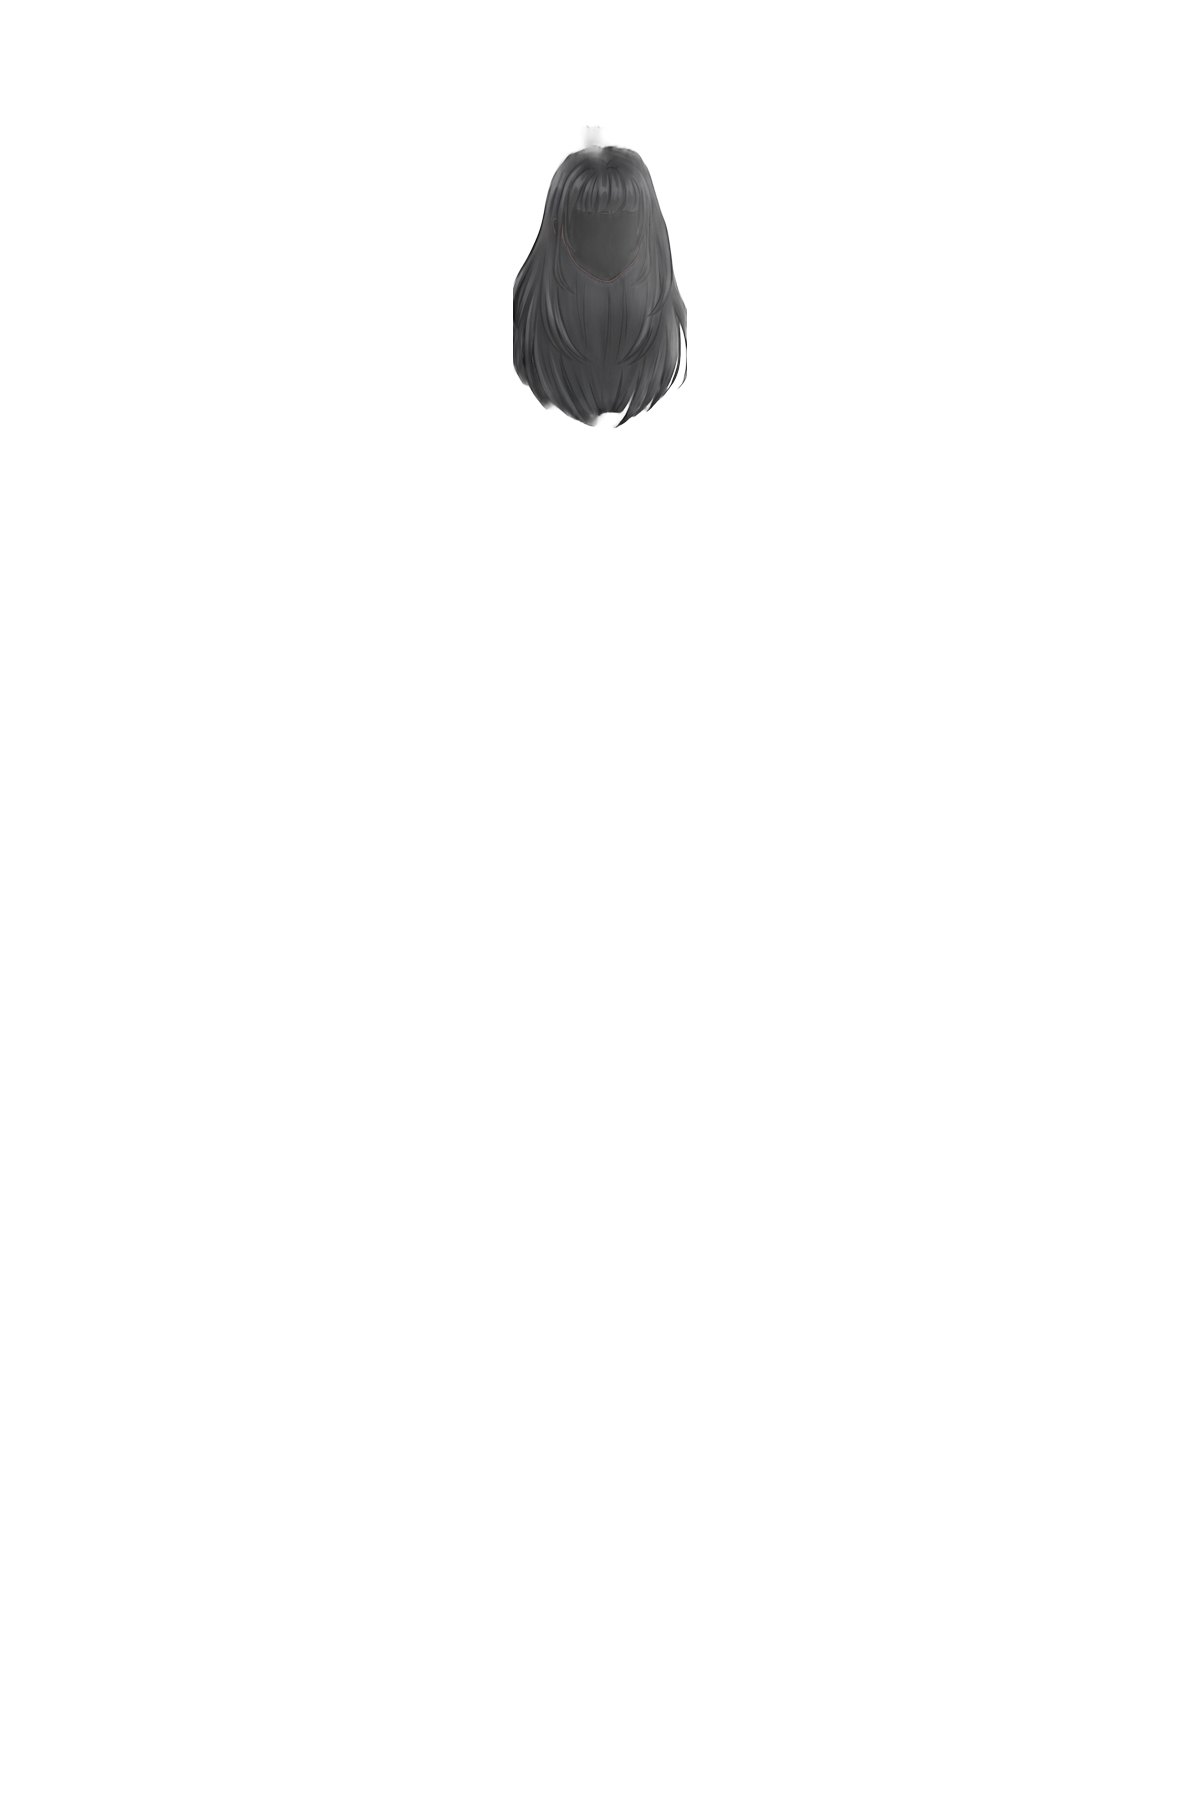
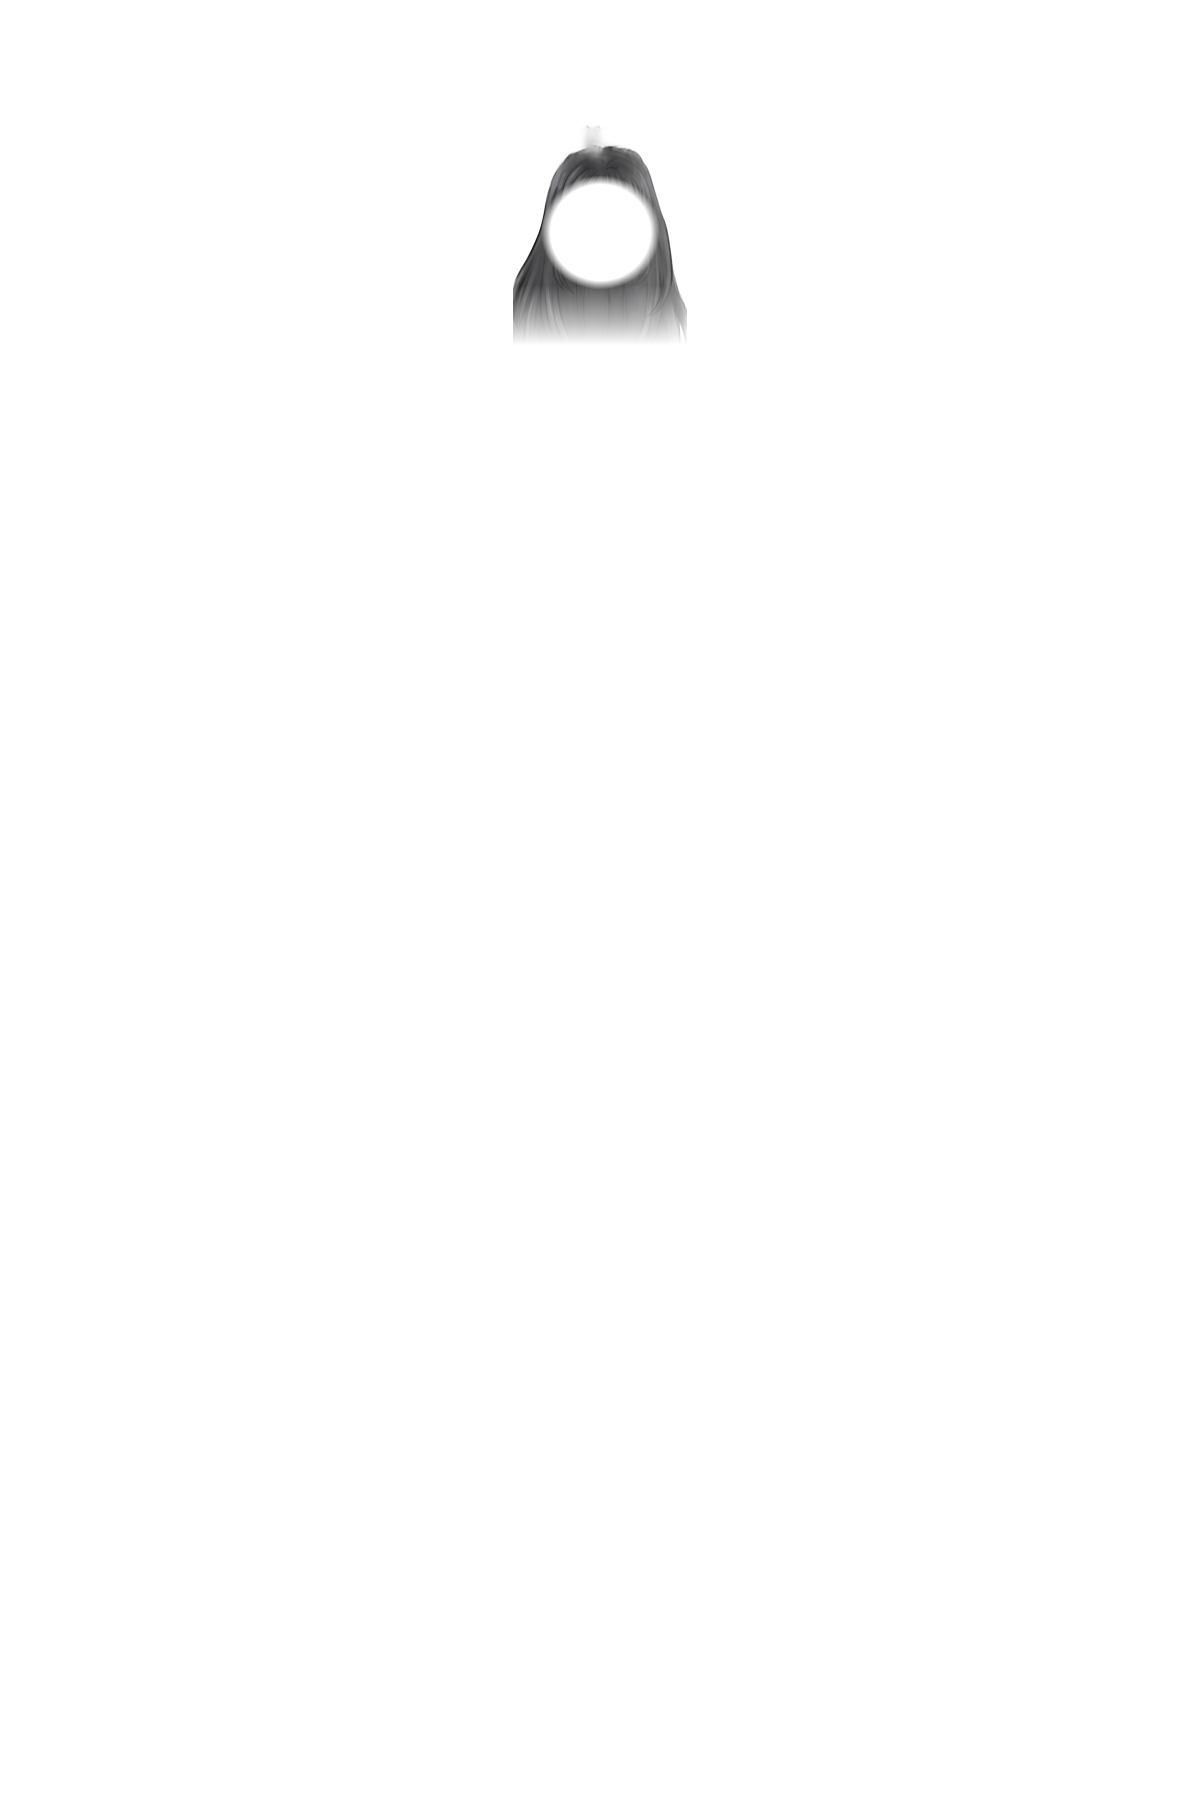
feat: paper-doll hair system — back mass + front cap with face window
- hairsplit.py: every Gemini hair becomes hair_back (full mass behind the
  base) + a front cap faded below the chin with a feathered eye-to-chin
  face window, matching how the APC pack wigs work
- explicit z-index per layer (animated layers confused DOM-order painting)

Changed region(s): [[0.4008, 0.0933, 0.5858, 0.2489]]

diff --git a/game/assets/preview.html b/game/assets/preview.html
@@ -28,10 +28,11 @@ const stage = (layers, label) => {
   const c = document.createElement("figcaption"); c.textContent = label;
   f.append(s, c); return f;
 };
+const v = "?v=" + Date.now();
 for (const b of BASES)
-  document.getElementById("bases").append(stage([`bases/${b}.png`, "hair/hair_fringe.png"], b));
+  document.getElementById("bases").append(stage([`hair/hair_fringe_back.png${v}`, `bases/${b}.png${v}`, `hair/hair_fringe.png${v}`], b));
 for (const h of HAIRS)
-  document.getElementById("hairs").append(stage(["bases/deep_current.png", `hair/hair_${h}.png`], h));
+  document.getElementById("hairs").append(stage([`hair/hair_${h}_back.png${v}`, `bases/oceanic.png${v}`, `hair/hair_${h}.png${v}`], h));
 for (const b of BASES)
-  document.getElementById("fit").append(stage([`bases/${b}.png`, "items/_testwrap.png"], b + " + wrap"));
+  document.getElementById("fit").append(stage([`bases/${b}.png${v}`, `items/dress_ruffle.png${v}`], b + " + dress"));
 </script>

diff --git a/game/js/engine.js b/game/js/engine.js
@@ -10,15 +10,16 @@ let equipCb = null;
 
 export function initStage(el) {
   el.replaceChildren();
-  for (const name of SLOTS) {
+  SLOTS.forEach((name, i) => {
     const img = document.createElement("img");
     img.className = `layer layer-${name}`;
     img.alt = "";
     img.draggable = false;
     img.hidden = true;
+    img.style.zIndex = String(i + 1); // explicit paint order; never rely on DOM-order stacking
     el.appendChild(img);
     layers[name] = img;
-  }
+  });
 }
 
 function setLayer(name, src) {

diff --git a/game/js/data.js b/game/js/data.js
@@ -19,7 +19,7 @@ export const TAILS = [
 ];
 
 const hair = (id, vibe) => ({
-  id: `hair_${id}`, slot: "hair", vibe,
+  id: `hair_${id}`, slot: "hair", vibe, hasBack: true, // full mass behind the base, cap in front
   src: `assets/hair/hair_${id}.png`, thumb: `assets/thumbs/hair_${id}.webp`,
 });
 

diff --git a/tools/hairsplit.py b/tools/hairsplit.py
@@ -1,0 +1,52 @@
+#!/usr/bin/env python3
+"""Turn each composed Gemini hair into a proper paper-doll wig:
+
+  hair_X_back.png — the full hair mass, rendered BEHIND the base
+  hair_X.png      — front cap only: crown + bangs, fading out below the
+                    chin, with a feathered face window punched out so the
+                    face always shows (the same trick the APC pack hairs use)
+
+Run AFTER `slice.py compose`. Face geometry comes from the shared body
+anchor (head center 600, head top 140, head width ~130 on canvas).
+"""
+import sys
+from pathlib import Path
+import numpy as np
+from PIL import Image
+
+ROOT = Path(__file__).resolve().parent.parent
+HAIR = ROOT / "game" / "assets" / "hair"
+
+# face window (canvas coords) — EYES to chin: bangs may cover the forehead,
+# exactly like the APC pack wigs. Narrower than the head.
+FACE_CX, FACE_CY, FACE_RX, FACE_RY, FEATHER = 600, 232, 50, 48, 9
+# front cap keeps rows above FADE_TOP fully, fades to nothing by FADE_BOTTOM
+FADE_TOP, FADE_BOTTOM = 285, 345
+
+GEMINI = ["fringe", "shag", "split", "spiral", "shortwave", "epic",
+          "longwave", "bob", "spring", "summer", "autumn", "winter"]
+
+yy, xx = np.mgrid[0:1800, 0:1200]
+d = np.sqrt(((xx - FACE_CX) / FACE_RX) ** 2 + ((yy - FACE_CY) / FACE_RY) ** 2)
+# 1 inside the window core, feathered to 0 at the rim
+window = np.clip((1 + FEATHER / FACE_RY - d) / (FEATHER / FACE_RY), 0, 1)
+rowfade = np.clip((FADE_BOTTOM - yy) / (FADE_BOTTOM - FADE_TOP), 0, 1)
+
+def split(name):
+    p = HAIR / f"hair_{name}.png"
+    back_p = HAIR / f"hair_{name}_back.png"
+    src = back_p if back_p.exists() else p      # idempotent: reuse full mass
+    im = np.array(Image.open(src).convert("RGBA"))
+    Image.fromarray(im).save(back_p)            # back = full hair
+    front = im.copy()
+    a = front[:, :, 3].astype(float)
+    a *= (1 - window)                           # punch the face window
+    a *= rowfade                                # fade the cap into the back mass
+    front[:, :, 3] = a.astype(np.uint8)
+    Image.fromarray(front).save(p)
+    print(f"hair_{name}: back + front cap")
+
+if __name__ == "__main__":
+    names = sys.argv[1:] or GEMINI
+    for n in names:
+        split(n)
